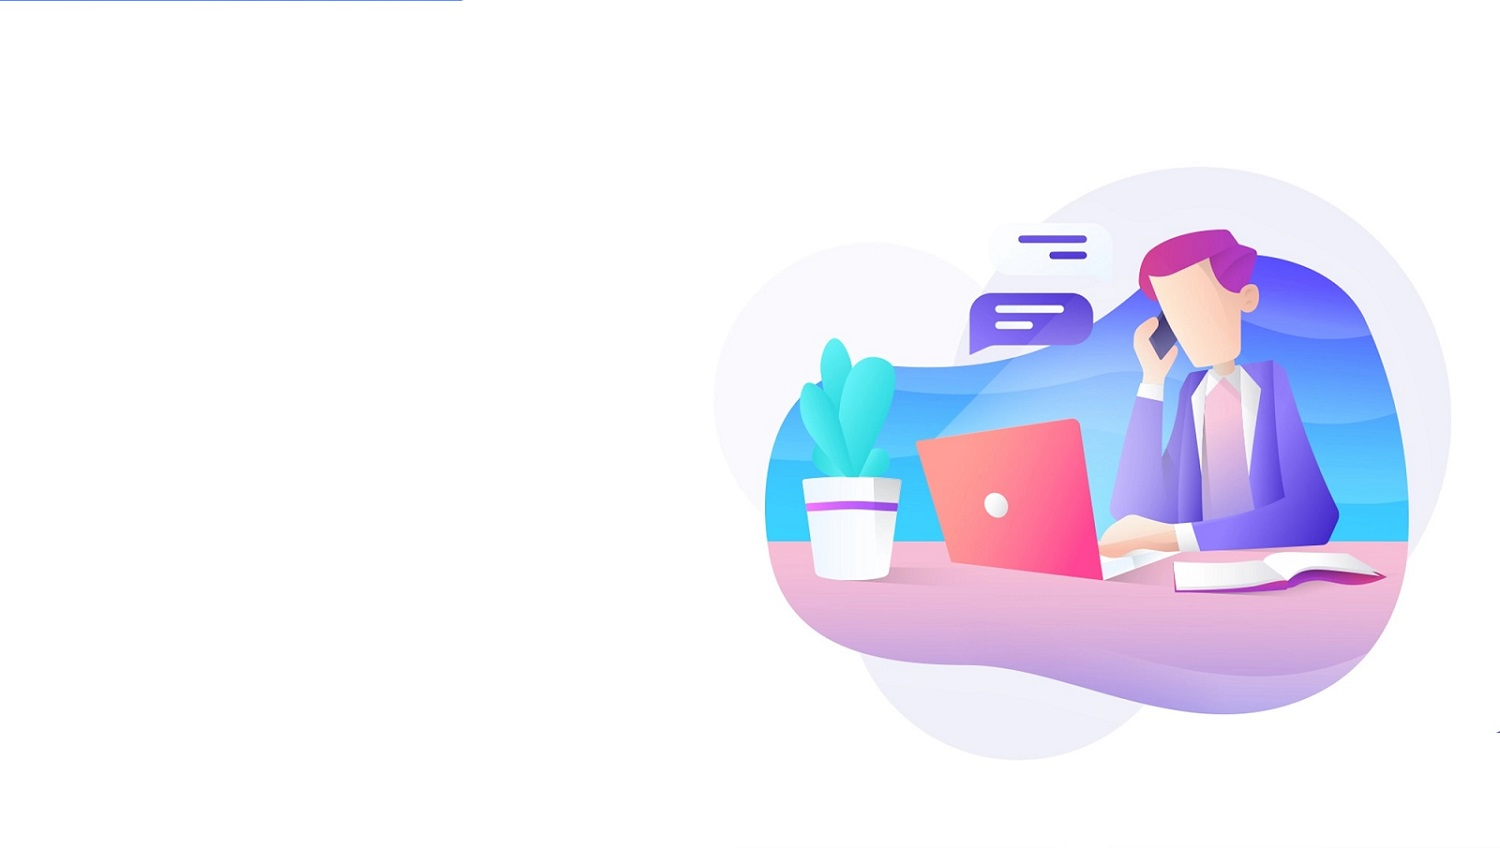
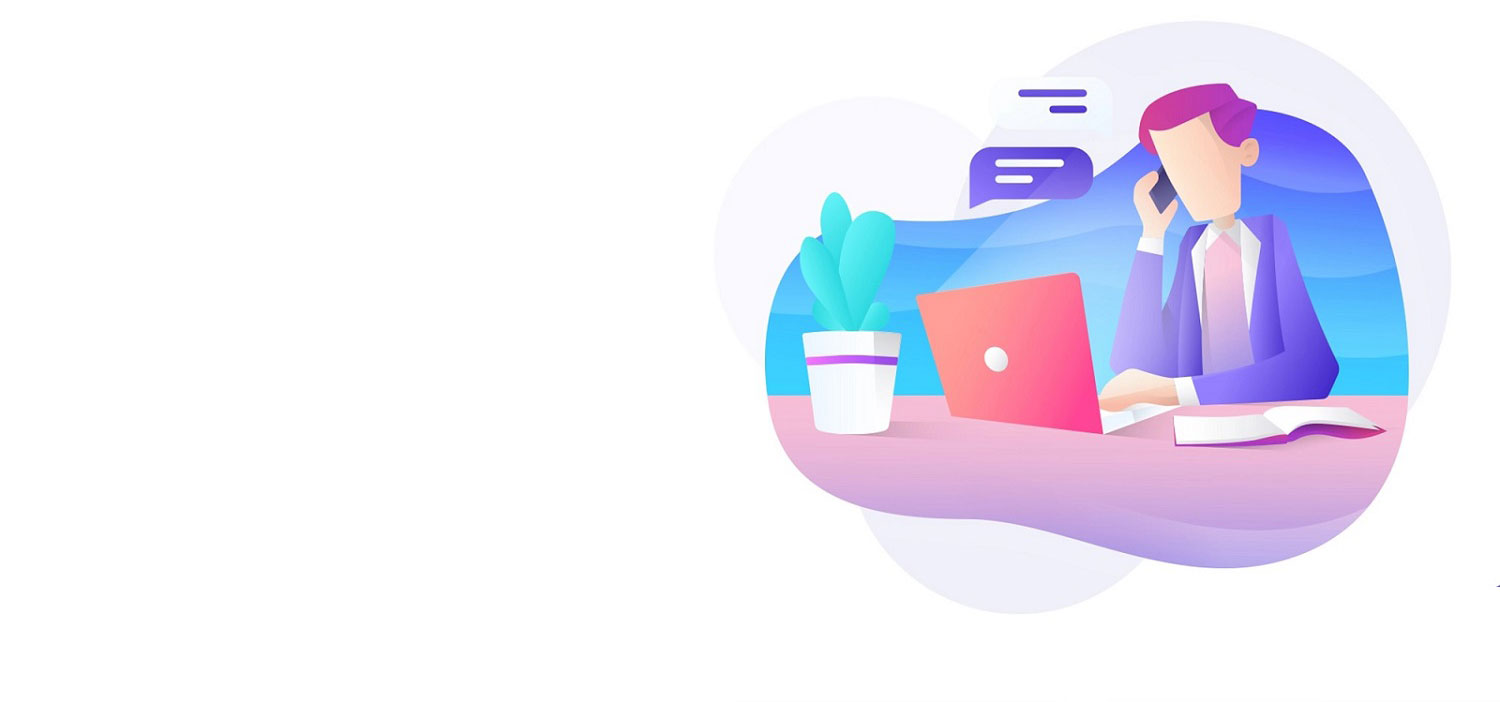
revisi css front end

Changed region(s): [[0.4907, 0.1197, 0.9507, 0.8675]]

diff --git a/public/frontend/css/style.css b/public/frontend/css/style.css
@@ -115,7 +115,8 @@ a.move-top span {
 
 /* header */
 header {
-    background: #0083ff57;
+    /*background: #0083ff57;*/
+	background: #0083ff;
 }
 
 /* navigation */
@@ -137,8 +138,8 @@ nav {
     display: initial;
     font-family: 'Lato', sans-serif;
     font-weight: 400;
-    font-size: 0.8em;
-    text-transform: capitalize;
+    font-size: 0.6em;
+    text-transform: none;
     color: #fff;
 }
 
@@ -592,7 +593,7 @@ input.form-control.bg-theme {
 }
 
 .banner_text_wthree_pvt {
-    padding: 15vw 0;
+    padding: 10vw 0;
 }
 
 .banner:before,
@@ -623,7 +624,7 @@ button.btn.bg-theme {
 
 .banner-bottom-w3ls {
     position: absolute;
-    bottom: -150px;
+    bottom: -100px;
     left: 14%;
     width: 72%;
 }
@@ -632,7 +633,7 @@ button.btn.bg-theme {
     text-transform: capitalize;
     font-size: 1.2em;
     text-align: center;
-    margin: 1em 0 0;
+    margin: 0em 0 0;
     color: #000;
     font-weight: 600;
     font-family: 'Lato', sans-serif;
@@ -678,11 +679,11 @@ button.wthree-link-bnr:hover {
 
 h3.home-banner-w3 {
     color: black;
-    font-size: 2.5em;
+    font-size: 2em;
     line-height: 1.4;
     text-transform: capitalize;
     width: 50%;
-    font-weight: 700;
+    font-weight: 500;
     word-spacing: 4px;
 }
 
@@ -711,20 +712,22 @@ li.breadcrumb-item a {
 /* title */
 
 .wthree_pvt_title {
-    margin-bottom: 5em;
+    margin-bottom: 2em;
+	padding-top: 0px;
+	
 }
 
 h4.w3pvt-title {
     color: #0083ff;
     text-transform: capitalize;
-    font-size: 2.3em;
-    font-weight: 600;
-    text-shadow: 1px 1px 1px #969696;
+    font-size: 2em;
+    font-weight: 500;
+    text-shadow: 0px 0px 0px #969696;
 }
 
 p.sub-title {
     color: #333;
-    font-weight: 600;
+    font-weight: 500;
     text-transform: capitalize;
     width: 60%;
     margin: 1em auto 0;
@@ -765,9 +768,9 @@ span.sub-title {
     color: #0083ff;
 }
 
-.abt-txt h4 {
+.abt-txt h6 {
     text-transform: capitalize;
-    font-size: 1.3em;
+    font-size: 1em;
     margin-bottom: 0.5em;
 }
 
@@ -860,7 +863,7 @@ h4.text-email{
 .pass{
     Border : 0; 
     border-bottom : 1px solid black;
-    text-transform:uppercase;
+    text-transform:none;
     height: 50px;
     display: block;
     width: 500px;
